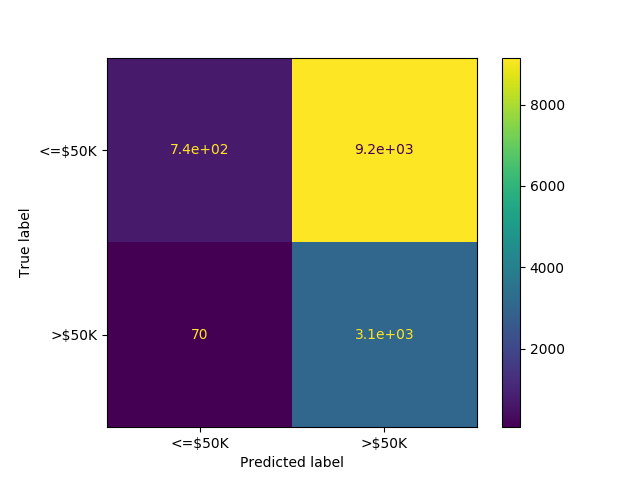
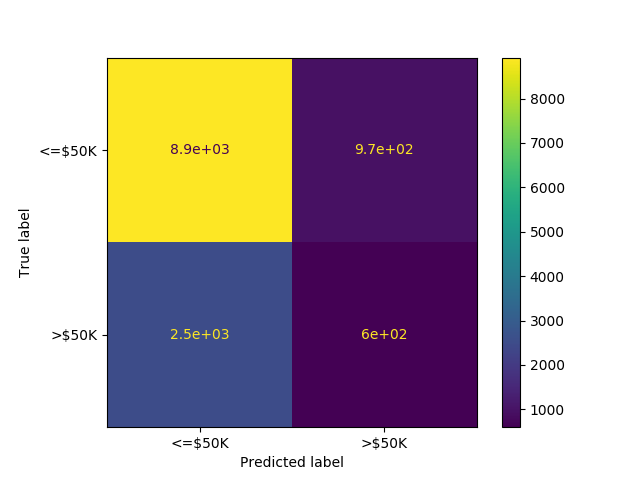
Reran random hill climb

diff --git a/Code/artificial_neural_network.py b/Code/artificial_neural_network.py
@@ -15,7 +15,7 @@ def main():
     x_data, y_data = process_dataset.process_census_data()
     x_train, x_test, y_train, y_test = train_test_split(x_data, y_data, train_size=0.6, random_state=86)
 
-    ann = mlrose_hiive.NeuralNetwork(hidden_nodes=[32, 32], activation='relu', algorithm='simulated_annealing',
+    ann = mlrose_hiive.NeuralNetwork(hidden_nodes=[32, 32], activation='relu', algorithm='random_hill_climb',
                                      max_iters=200, bias=True, is_classifier=True, learning_rate=0.5,
                                      max_attempts=200, early_stopping=False)
 
@@ -293,7 +293,7 @@ if __name__ == '__main__':
     print("Starting genetic algorithm")
     # ann_weights_genetic_alg()
     print("Starting random hillclimbing")
-    ann_weights_randomized_hillclimbing()
+    # ann_weights_randomized_hillclimbing()
     print("Starting gradient descent")
     # ann_weights_gradient_descent()
-    # main()
+    main()
